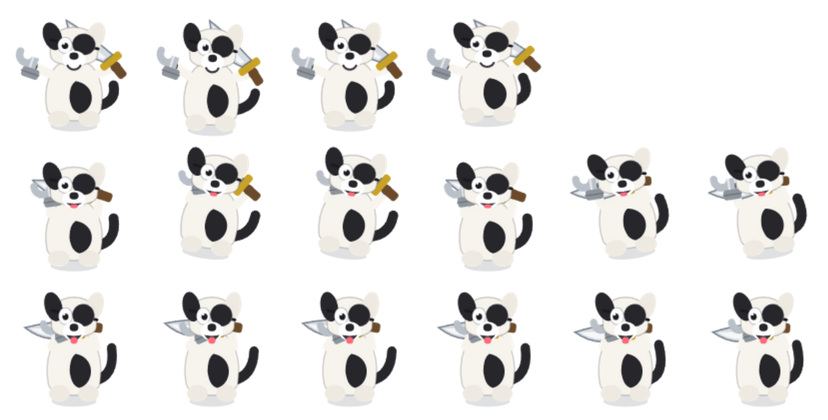
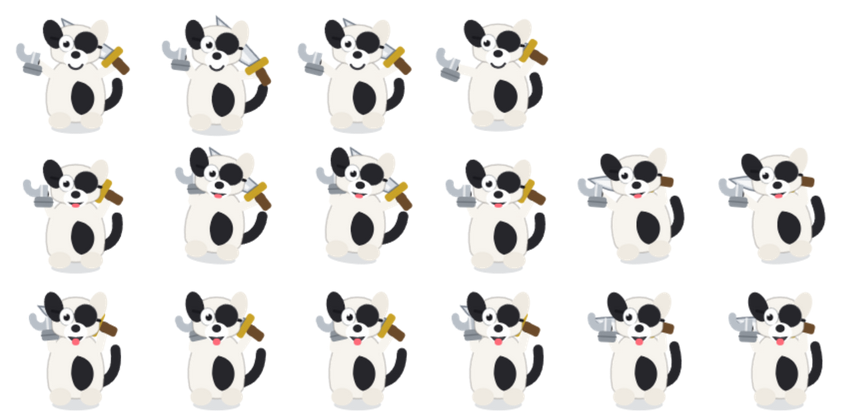
宠物动作放慢、道具改成挥舞；小黄龙腹肌重画
待机太跳
- 皮肤格式新增「每种状态独立帧率」，待机降到 3.5fps（原来 4 帧 @10fps
  = 0.4 秒一轮，等于每秒抖 2.5 次），实测画面变动幅度降了约三成
- 待机的上下弹跳幅度砍半（3px -> 1.5px）、倾斜和挤压也收到几乎看不见
- 动感改由手里的道具承担：砍刀/铁钩/网兜在待机时就有明显摆动，
  不再靠整体上下蹦

小黄龙腹肌重画
- 不再贴六个椭圆（那样像水泡），改成真实腹肌的画法：
  一道竖沟 + 两条横沟分成六块，每块加上缘高光和下缘暗边
- 沟的深浅、线条粗细都随绷紧程度变化，越绷对比越强
- 肚皮会随绷紧微微鼓起，腹肌中心从嘴巴位置下移到肚皮中间（原来被嘴压住）
- 二头肌改成和手臂同色并与手臂连成一体（原来是一个浮在旁边的浅色圆）
- 肩点从身体轮廓内挪到轮廓外，胳膊终于露得出来

README 补上分状态帧率的说明和「待机建议放慢」的提醒

diff --git a/build/make-skins.js b/build/make-skins.js
@@ -74,12 +74,14 @@ function teeth(ctx, x, y, w, h, n) {
   ctx.fillStyle = '#ffffff';
   for (let i = 0; i < (n || 2); i++) ctx.fillRect(x + i * (w + 1), y, w, h);
 }
-/* 三种状态的通用姿态（角色可以在此基础上自己加戏） */
+/* 三种状态的通用姿态。
+   待机刻意画得「稳」：几乎不上下弹，只留极轻微的呼吸；
+   动感交给角色手里的道具去挥 —— 整体一直跳会让人看着心烦。 */
 function poseFor(kind, p) {
   const s = Math.sin(p * TAU);
-  if (kind === 'idle') return { bob: s * 3, tilt: s * 0.03, squash: 1 + s * 0.03, arm: 0.12, open: 0, p: p };
-  if (kind === 'dance') return { bob: -Math.abs(Math.sin(p * TAU)) * 14, tilt: s * 0.16, squash: 1, arm: 0.75, open: 1, p: p };
-  return { bob: -7, tilt: 0, squash: 1.05, arm: 1, open: 2, p: p };
+  if (kind === 'idle') return { bob: s * 1.5, tilt: s * 0.012, squash: 1 + s * 0.014, arm: 0.34, open: 0, p: p };
+  if (kind === 'dance') return { bob: -Math.abs(s) * 11, tilt: s * 0.13, squash: 1, arm: 0.8, open: 1, p: p };
+  return { bob: -5, tilt: 0, squash: 1.04, arm: 1, open: 2, p: p };
 }
 
 /* ============================================================ ① 海盗狗 */
@@ -115,8 +117,8 @@ function drawDog(ctx, q, p, kind) {
   ctx.moveTo(2, 2); ctx.bezierCurveTo(26, 6, 24, 34, 6, 38);
   ctx.bezierCurveTo(-8, 34, -8, 8, 2, 2); ctx.fill();
 
-  /* ---- 右手：海盗砍刀 ---- */
-  const sa = -0.15 - q.arm * 1.75 + swing * (kind === 'dance' ? 0.55 : 0.12);
+  /* ---- 右手：海盗砍刀（待机时也在挥，只是幅度小一点） ---- */
+  const sa = -0.15 - q.arm * 1.15 + swing * (kind === 'dance' ? 0.62 : 0.42);
   const hx = 26 + Math.cos(sa) * 22, hy = -6 + Math.sin(sa) * 22;
   limb(ctx, 26, -6, hx, hy, 10, '#f7f4ee');
   ctx.fillStyle = '#26262b'; circle(ctx, hx, hy, 5.4);
@@ -145,7 +147,7 @@ function drawDog(ctx, q, p, kind) {
   ctx.restore();
 
   /* ---- 左手：铁钩 ---- */
-  const ha = -0.2 - q.arm * 1.9 - swing * (kind === 'dance' ? 0.4 : 0.1);
+  const ha = -0.2 - q.arm * 1.25 - swing * (kind === 'dance' ? 0.5 : 0.36);
   const ex = -26 - Math.cos(ha) * 22, ey = -6 + Math.sin(ha) * 22;
   limb(ctx, -26, -6, ex, ey, 10, '#f7f4ee');
   ctx.fillStyle = '#26262b'; circle(ctx, ex, ey, 5.4);
@@ -237,41 +239,72 @@ function drawDragon(ctx, q, p, kind) {
   ctx.fill();
   ctx.lineWidth = 1.6; ctx.strokeStyle = 'rgba(190,130,10,.5)'; ctx.stroke();
 
-  /* 肚皮 */
-  const bellyG = ctx.createLinearGradient(0, 0, 0, 40);
-  bellyG.addColorStop(0, 'rgba(255,253,225,.95)');
-  bellyG.addColorStop(1, 'rgba(255,244,190,.9)');
+  /* 肚皮（绷紧时整体鼓一点） */
+  const bellyRy = 22 * (1 + (flex - 1) * 0.13);
+  const bellyRx = 26 * (1 + (flex - 1) * 0.07);
+  const bellyG = ctx.createLinearGradient(0, 20 - bellyRy, 0, 20 + bellyRy);
+  bellyG.addColorStop(0, 'rgba(255,253,225,.96)');
+  bellyG.addColorStop(1, 'rgba(252,238,175,.92)');
   ctx.fillStyle = bellyG;
-  oval(ctx, 0, 14, 26, 22, 0);
-  ctx.lineWidth = 1.2; ctx.strokeStyle = 'rgba(210,170,40,.35)';
-  ctx.beginPath(); ctx.ellipse(0, 14, 26, 22, 0, 0, TAU); ctx.stroke();
+  oval(ctx, 0, 20, bellyRx, bellyRy, 0);
+  ctx.lineWidth = 1.2; ctx.strokeStyle = 'rgba(210,170,40,.4)';
+  ctx.beginPath(); ctx.ellipse(0, 20, bellyRx, bellyRy, 0, 0, TAU); ctx.stroke();
 
-  /* ---- 腹肌：两列三排，尺寸随 flex 变 ---- */
-  const abW = 7 * flex, abH = 5.4 * flex, gapX = 8.4 * flex, gapY = 8.4 * flex;
-  const abTop = 4 - (flex - 1) * 3;
-  for (let row = 0; row < 3; row++) {
-    for (let col = -1; col <= 1; col += 2) {
-      const ax = col * gapX * 0.55, ay = abTop + row * gapY;
-      const gg = ctx.createRadialGradient(ax - abW * 0.3, ay - abH * 0.4, 1, ax, ay, abW);
-      gg.addColorStop(0, 'rgba(255,255,255,.95)');
-      gg.addColorStop(0.55, 'rgba(240,200,90,.75)');
-      gg.addColorStop(1, 'rgba(214,160,35,.55)');
-      ctx.fillStyle = gg;
-      oval(ctx, ax, ay, abW, abH, col * 0.12);
-      ctx.lineWidth = 1; ctx.strokeStyle = 'rgba(196,142,22,.45)';
-      ctx.beginPath(); ctx.ellipse(ax, ay, abW, abH, col * 0.12, 0, TAU); ctx.stroke();
+  /* ---- 腹肌：靠「沟」和「隆起」画，不是贴六个椭圆 ----
+     真实腹肌 = 一道竖沟 + 两条横沟把腹直肌分成六块。
+     所以先铺隆起，再压沟，最后给每块加高光；绷得越紧对比越强。 */
+  const abGrow = 1 + (flex - 1) * 0.55;
+  const abW = 7.4 * abGrow, abH = 4.2 * abGrow;
+  const rowH = 2 * abH + 2.2;
+  const abMid = 22;                       // 腹肌中心（在肚皮中间，不再被嘴压住）
+  const abTop = abMid - rowH * 1.5;
+
+  /* 整片隆起 */
+  const mg = ctx.createRadialGradient(-3, abTop + rowH * 1.1, 2, 0, abMid, abW * 2.6);
+  mg.addColorStop(0, 'rgba(255,255,255,.75)');
+  mg.addColorStop(0.6, 'rgba(247,206,92,.5)');
+  mg.addColorStop(1, 'rgba(230,180,50,0)');
+  ctx.fillStyle = mg;
+  oval(ctx, 0, abMid, abW * 2.2, rowH * 1.75, 0);
+
+  /* 沟（对比度给足，否则看不出是肌肉） */
+  ctx.lineCap = 'round';
+  const gAlpha = Math.min(0.8, 0.45 + flex * 0.22);
+  ctx.strokeStyle = 'rgba(163,108,14,' + gAlpha + ')';
+  ctx.lineWidth = 1.4 + flex * 0.7;
+  ctx.beginPath();
+  ctx.moveTo(0, abTop - abH * 0.45);
+  ctx.lineTo(0, abTop + rowH * 2 + abH * 0.45);
+  ctx.stroke();
+  for (let r = 1; r <= 2; r++) {
+    const gy = abTop + r * rowH - rowH * 0.5;
+    ctx.beginPath();
+    ctx.moveTo(-abW * 0.98, gy + 1.9);
+    ctx.quadraticCurveTo(0, gy - 1.9, abW * 0.98, gy + 1.9);
+    ctx.stroke();
+  }
+  /* 每块上面的高光，和下面的暗边，做出立体感 */
+  for (let r = 0; r < 3; r++) {
+    for (let c = -1; c <= 1; c += 2) {
+      const ax = c * abW * 0.5, ay = abTop + r * rowH;
+      ctx.fillStyle = 'rgba(255,255,255,' + Math.min(0.85, 0.4 + flex * 0.28) + ')';
+      oval(ctx, ax - abW * 0.16, ay - abH * 0.26, abW * 0.42, abH * 0.36, c * 0.08);
+      ctx.fillStyle = 'rgba(178,124,20,' + Math.min(0.4, 0.14 + flex * 0.14) + ')';
+      oval(ctx, ax + abW * 0.1, ay + abH * 0.34, abW * 0.4, abH * 0.2, c * 0.06);
     }
   }
-  /* 中间那道腹白线 */
-  ctx.strokeStyle = 'rgba(200,150,30,.35)'; ctx.lineWidth = 1.2;
-  ctx.beginPath(); ctx.moveTo(0, abTop - abH); ctx.lineTo(0, abTop + 3 * gapY); ctx.stroke();
-  /* 绷到最大时来点高光 */
-  if (flex > 1.2) {
-    ctx.globalAlpha = Math.min(0.75, (flex - 1.2) * 1.4);
-    ctx.fillStyle = '#ffffff';
-    oval(ctx, -13, abTop + 2, 3.4, 8, -0.3);
-    oval(ctx, 13, abTop + 2, 3.4, 8, 0.3);
-    ctx.globalAlpha = 1;
+  /* 绷到最大时，两侧再压两道外轮廓 */
+  if (flex > 1.1) {
+    ctx.strokeStyle = 'rgba(170,116,16,' + Math.min(0.62, (flex - 1.1) * 1.1) + ')';
+    ctx.lineWidth = 1.3;
+    ctx.beginPath();
+    ctx.moveTo(-abW * 1.16, abTop - abH * 0.15);
+    ctx.quadraticCurveTo(-abW * 1.3, abMid, -abW * 0.92, abTop + rowH * 2.85);
+    ctx.stroke();
+    ctx.beginPath();
+    ctx.moveTo(abW * 1.16, abTop - abH * 0.15);
+    ctx.quadraticCurveTo(abW * 1.3, abMid, abW * 0.92, abTop + rowH * 2.85);
+    ctx.stroke();
   }
 
   /* 头顶小角 */
@@ -287,27 +320,33 @@ function drawDragon(ctx, q, p, kind) {
   ctx.fillStyle = 'rgba(255,130,90,.5)';
   oval(ctx, -29, -10, 8, 6, 0); oval(ctx, 29, -10, 8, 6, 0);
 
-  /* 嘴 */
-  ctx.fillStyle = '#f9c22e'; oval(ctx, 0, -4, 15, 11, 0);
-  if (q.open) mouthOpen(ctx, 0, -2, 11, q.open === 2 ? 8 : 5, '#a8610f');
+  /* 嘴（上移到脸下半部，别压到腹肌） */
+  ctx.fillStyle = '#f9c22e'; oval(ctx, 0, -12, 15, 10, 0);
+  if (q.open) mouthOpen(ctx, 0, -10, 11, q.open === 2 ? 8 : 5, '#a8610f');
   else {
     ctx.strokeStyle = '#a8610f'; ctx.lineWidth = 2.6; ctx.lineCap = 'round';
-    ctx.beginPath(); ctx.arc(0, -3, 10, 0.15 * Math.PI, 0.85 * Math.PI); ctx.stroke();
+    ctx.beginPath(); ctx.arc(0, -11, 10, 0.15 * Math.PI, 0.85 * Math.PI); ctx.stroke();
   }
-  if (q.open) teeth(ctx, -6, -7, 5, 5, 2);
-  ctx.fillStyle = '#c98a1a'; circle(ctx, -4, -7, 1.6); circle(ctx, 4, -7, 1.6);
+  if (q.open) teeth(ctx, -6, -15, 5, 5, 2);
+  ctx.fillStyle = '#c98a1a'; circle(ctx, -4, -15, 1.6); circle(ctx, 4, -15, 1.6);
 
-  /* ---- 手臂：绷腹肌时顺带秀二头肌 ---- */
-  const a = -0.4 - q.arm * 1.9;
-  const bulge = 5 + flex * 3.4;
+  /* ---- 手臂 + 二头肌：二头肌和手臂同色，才连成一条胳膊而不是浮在旁边的球 ---- */
+  const a = -0.35 - q.arm * 1.1 + Math.sin(p * TAU) * (kind === 'dance' ? 0.45 : 0.3);
+  const bulge = 5.5 + flex * 3.6;
   [-1, 1].forEach(function (sgn) {
-    const ex = sgn * (34 + Math.cos(a) * 16), ey = 8 + Math.sin(a) * 16;
-    limb(ctx, sgn * 34, 8, ex, ey, 9, '#f7b52c');
-    ctx.fillStyle = '#ffd45c';
-    circle(ctx, sgn * 34 - sgn * 3, 6, bulge * 0.62);   // 二头肌
-    ctx.lineWidth = 1; ctx.strokeStyle = 'rgba(190,130,10,.4)';
-    ctx.beginPath(); ctx.arc(sgn * 34 - sgn * 3, 6, bulge * 0.62, 0, TAU); ctx.stroke();
-    ctx.fillStyle = '#f7b52c'; circle(ctx, ex, ey, 5.5);
+    /* 肩点要落在身体轮廓外（身体半宽约 40），否则胳膊只剩个圆点露出来 */
+    const sx = sgn * 39, sy = 8;
+    const mx = sgn * (39 + Math.cos(a) * 9), my = sy + Math.sin(a) * 9;      // 肘
+    const ex = sgn * (39 + Math.cos(a) * 19), ey = sy + Math.sin(a) * 19;    // 手
+    limb(ctx, sx, sy, mx, my, 10, '#f7b52c');                               // 上臂
+    ctx.fillStyle = '#f7b52c';
+    circle(ctx, (sx + mx) / 2, (sy + my) / 2 - 1.5, bulge * 0.66);          // 二头肌
+    ctx.fillStyle = 'rgba(255,255,255,.45)';                                // 肌肉高光
+    circle(ctx, (sx + mx) / 2 - sgn * 2.5, (sy + my) / 2 - bulge * 0.42, bulge * 0.28);
+    limb(ctx, mx, my, ex, ey, 8, '#f7b52c');                                // 前臂
+    ctx.fillStyle = '#f7b52c'; circle(ctx, ex, ey, 5.6);                    // 手
+    ctx.lineWidth = 1; ctx.strokeStyle = 'rgba(190,130,10,.35)';
+    ctx.beginPath(); ctx.arc(ex, ey, 5.6, 0, TAU); ctx.stroke();
   });
 }
 
@@ -444,8 +483,8 @@ function drawSponge(ctx, q, p, kind) {
   ctx.beginPath(); ctx.moveTo(0, 9); ctx.lineTo(-5, 15); ctx.lineTo(0, 20); ctx.lineTo(5, 15); ctx.closePath(); ctx.fill();
   ctx.beginPath(); ctx.moveTo(0, 19); ctx.lineTo(-4, 24); ctx.lineTo(0, 32); ctx.lineTo(4, 24); ctx.closePath(); ctx.fill();
 
-  /* ---- 网兜（抓水母用）：先画杆，再画网圈 ---- */
-  const na = -0.5 - q.arm * 1.5 + swing * (kind === 'dance' ? 0.5 : 0.15);
+  /* ---- 网兜：待机时也在轻轻晃，像在找水母 ---- */
+  const na = -0.55 - q.arm * 1.05 + swing * (kind === 'dance' ? 0.55 : 0.4);
   const nx = 30 + Math.cos(na) * 26, ny = -12 + Math.sin(na) * 26;
   limb(ctx, 30, -12, nx, ny, 3.6, '#b98b52');
   const hoopX = nx + Math.cos(na) * 12, hoopY = ny + Math.sin(na) * 12;
@@ -759,7 +798,12 @@ app.whenReady().then(async () => {
       fs.writeFileSync(path.join(dir, 'skin.json'), JSON.stringify({
         name: s.name, author: s.author,
         frame: { w: fw, h: FH }, fps: 10, sheet: 'sheet.png',
-        animations: { idle: { row: 0, count: 4 }, dance: { row: 1, count: 6 }, cheer: { row: 2, count: 6 } }
+        animations: {
+          /* 待机放慢：帧率太高会一直在抖，看久了很烦 */
+          idle: { row: 0, count: 4, fps: 3.5 },
+          dance: { row: 1, count: 6, fps: 12 },
+          cheer: { row: 2, count: 6, fps: 10 }
+        }
       }, null, 2) + '\n', 'utf8');
 
       /* ---- 自检 ---- */

diff --git a/app.js b/app.js
@@ -459,7 +459,9 @@
     if (!a || !m.frame) return false;
     const fw = m.frame.w, fh = m.frame.h;
     const count = Math.max(1, a.count || 1);
-    const idx = Math.floor(t * (m.fps || 10)) % count;
+    /* 每种状态可以有自己的帧率：待机慢一点才不烦，跳舞/欢呼才需要快 */
+    const fps = a.fps || m.fps || 10;
+    const idx = Math.floor(t * fps) % count;
     const row = a.row || 0;
     /* 与手绘角色对齐：底边落在原点、横向居中，整体高度约 278 个本地单位 */
     const k = 278 / fh;

diff --git a/skins/README.md b/skins/README.md
@@ -65,6 +65,18 @@ skins/
 | `sheet` | 否 | 精灵图文件名，默认 `sheet.png` |
 | `animations` | **是** | 三种状态各自用哪一行、有几帧 |
 
+每种状态还能单独指定帧率（`fps`），不写就用上面那个全局的：
+
+```json
+"animations": {
+  "idle":  { "row": 0, "count": 4, "fps": 4 },
+  "dance": { "row": 1, "count": 6, "fps": 12 },
+  "cheer": { "row": 2, "count": 6, "fps": 10 }
+}
+```
+
+> 待机建议放慢（3～5 fps）：帧数少、帧率高的话会一直在抖，看久了很烦。
+
 ### 三种状态
 
 程序会在不同时机切状态，所以三个都要给（至少要给 `idle`）：
